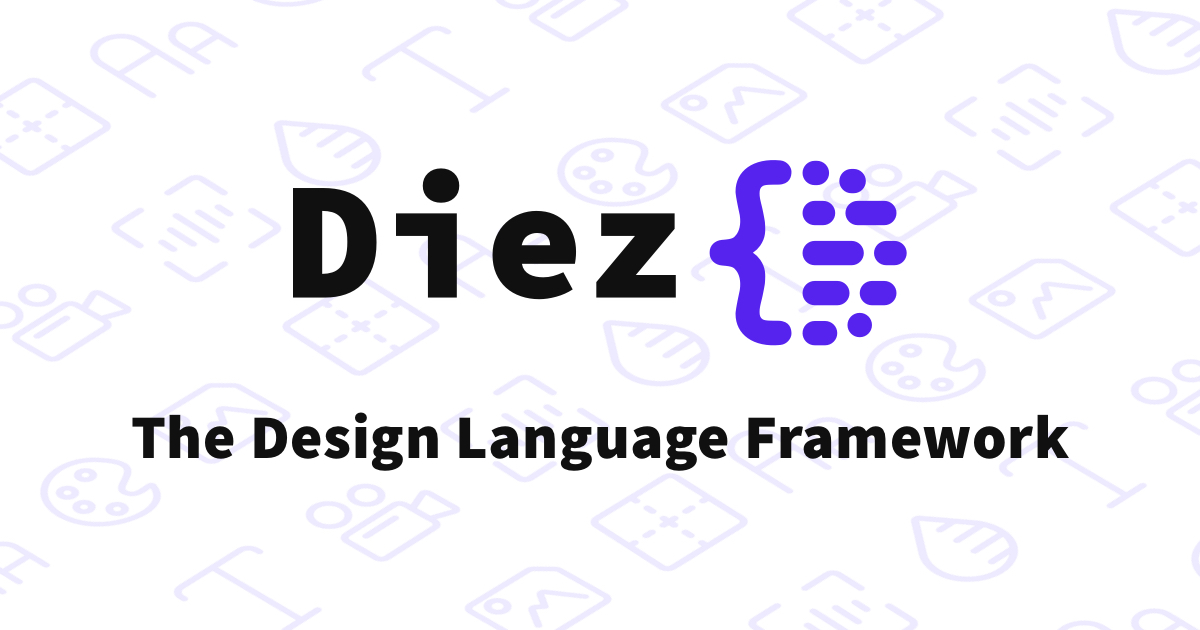
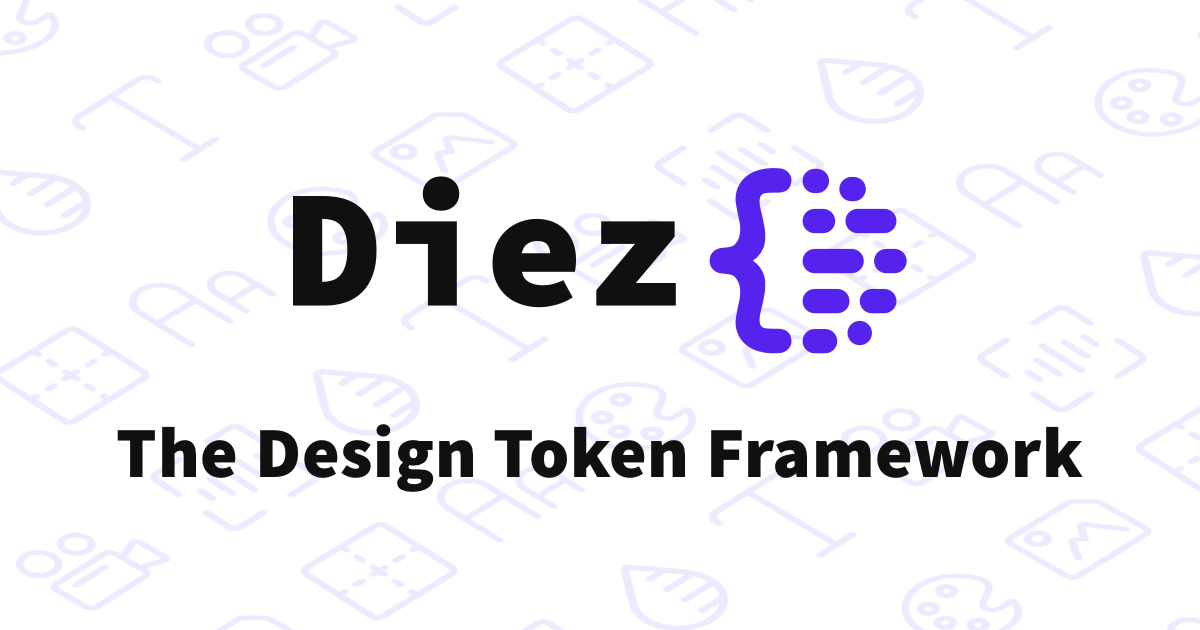
update page title + social card image

Changed region(s): [[0.2467, 0.2413, 0.7708, 0.573], [0.0925, 0.6635, 0.8942, 0.7841], [0.2467, 0.4222, 0.3083, 0.5127]]

diff --git a/docs/.vuepress/config.js b/docs/.vuepress/config.js
@@ -1,6 +1,6 @@
 const {join, resolve} = require('path');
 const DiezWebpackPlugin = require('diez-webpack-plugin');
-const siteTitle = 'Diez — The Design Language Framework';
+const siteTitle = 'Diez — The Design Token Framework';
 const siteDesc = 'Diez radically reduces the cost of delivering a consistent visual identity across your company’s apps & websites.';
 
 module.exports = {
